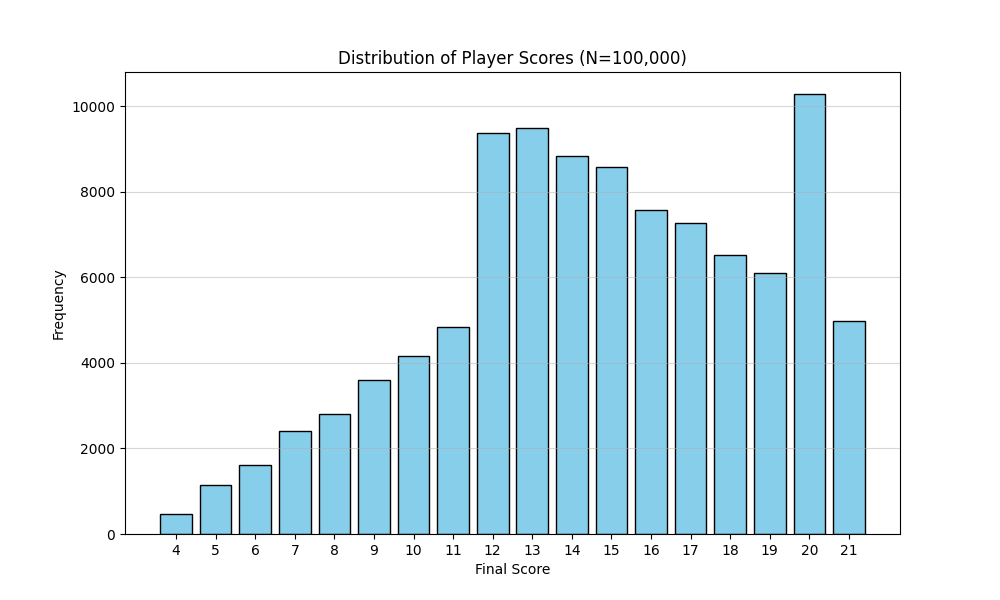
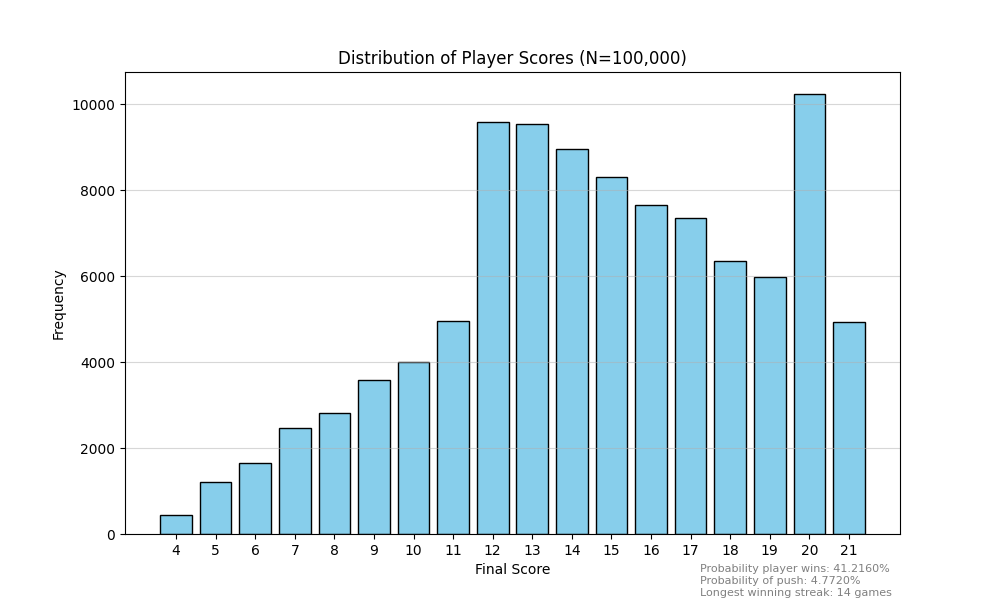
Added figure text to show simulation statistics

diff --git a/main.py b/main.py
@@ -116,6 +116,9 @@ frequencies = list(score_dict.values())
 plt.figure(figsize=(10, 6))
 plt.bar(scores, frequencies, color='skyblue', edgecolor='black')
 plt.title(f'Distribution of Player Scores (N={num_games:,})')
+plt.figtext(0.7, 0.01, f"Probability player wins: {win_prob * 100:.4f}%\n\
+Probability of push: {push_prob * 100:.4f}%\n\
+Longest winning streak: {longest_streak} games", wrap = True, fontsize=8, color='gray')
 plt.xlabel('Final Score')
 plt.ylabel('Frequency')
 plt.xticks(scores)
